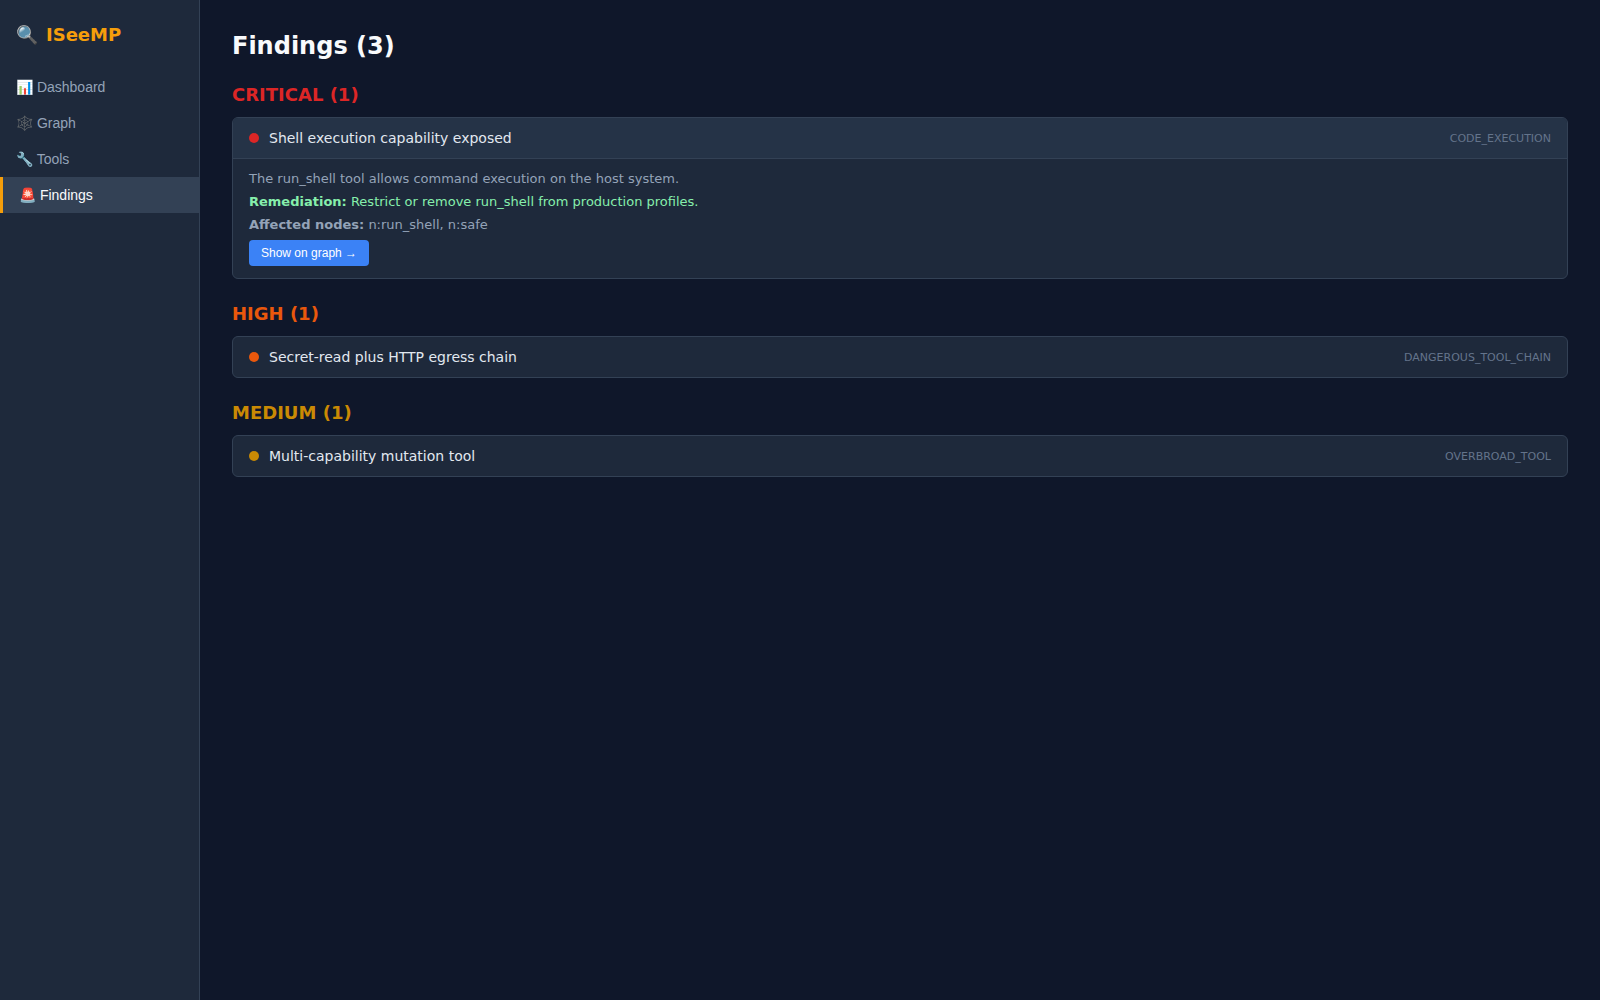
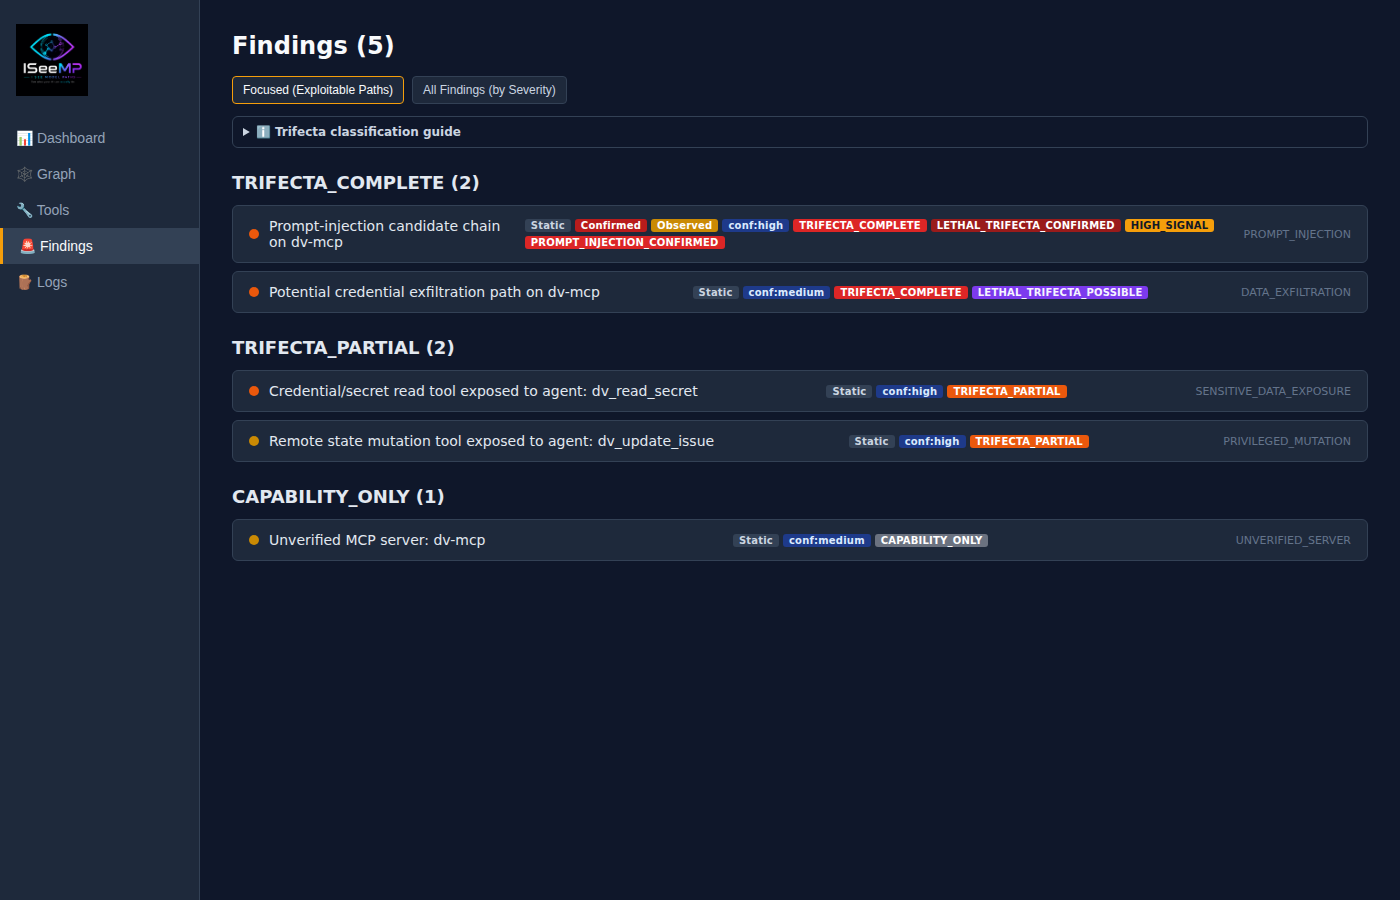
docs: update screenshots via Playwright + dv-mcp fixture
Agent-Logs-Url: https://github.com/goldjg/i-see-mp/sessions/c203b976-3bcc-42c6-b4f4-b0d3d630ff6e

diff --git a/README.md b/README.md
@@ -382,7 +382,9 @@ These screenshots were generated via Playwright.
 
 ![Findings](docs/screenshots/findings.png)
 
-<!-- TODO: add docs/screenshots/logs.png once captured -->
+### Logs
+
+![Logs](docs/screenshots/logs.png)
 
 ## Architecture
 
